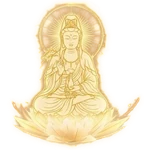
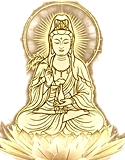
首頁滑動金球裡的觀音更清楚 (#16)
Claude-Session: https://claude.ai/code/session_012Ypsetd3w3qY9v54npHidR

diff --git a/index.html b/index.html
@@ -157,8 +157,8 @@
         .lamp-slide-text strong { font-size: 0.95rem; font-weight: 600; letter-spacing: 0.05em; }
         .lamp-slide-text small { font-size: 0.78rem; color: #9c897a; }
         .lamp-slide-text .go { position: absolute; right: 14px; top: 50%; transform: translateY(-50%); font-size: 1rem; letter-spacing: -0.1em; color: #c9ab86; }
-        /* 金色光球裡是光明球燈頁那尊發光的蓮座觀世音菩薩；球色較深，讓金色聖像看得清楚 */
-        .lamp-slide-knob { position: absolute; left: 5px; top: 5px; width: 38px; height: 38px; border-radius: 50%; cursor: grab; touch-action: none; background: url(lamp/knob-guanyin.webp) 50% 55% / 86% no-repeat, radial-gradient(circle at 40% 34%, #e2b45a 0 10%, #b07d2c 42%, #7c5119 64%); box-shadow: 0 0 14px rgba(212, 175, 55, 0.45), inset 0 0 0 1px rgba(255, 226, 160, 0.55); }
+        /* 金色光球裡是光明球燈頁那尊發光的蓮座觀世音菩薩：取聖像到蓮座上半，線條加深，小尺寸也看得清楚 */
+        .lamp-slide-knob { position: absolute; left: 5px; top: 5px; width: 38px; height: 38px; border-radius: 50%; cursor: grab; touch-action: none; background: url(lamp/knob-guanyin.webp) 50% 70% / auto 100% no-repeat, radial-gradient(circle at 40% 34%, #e2b45a 0 10%, #b07d2c 42%, #7c5119 64%); box-shadow: 0 0 14px rgba(212, 175, 55, 0.45), inset 0 0 0 1px rgba(255, 226, 160, 0.55); }
         .lamp-slide-knob:focus-visible { outline: 2px solid #8a6c4c; outline-offset: 2px; }
         .lamp-slide.back .lamp-slide-knob, .lamp-slide.back .lamp-slide-fill { transition: transform 0.3s ease, width 0.3s ease; }
         .lamp-slide.done { background-color: #a58362; }
